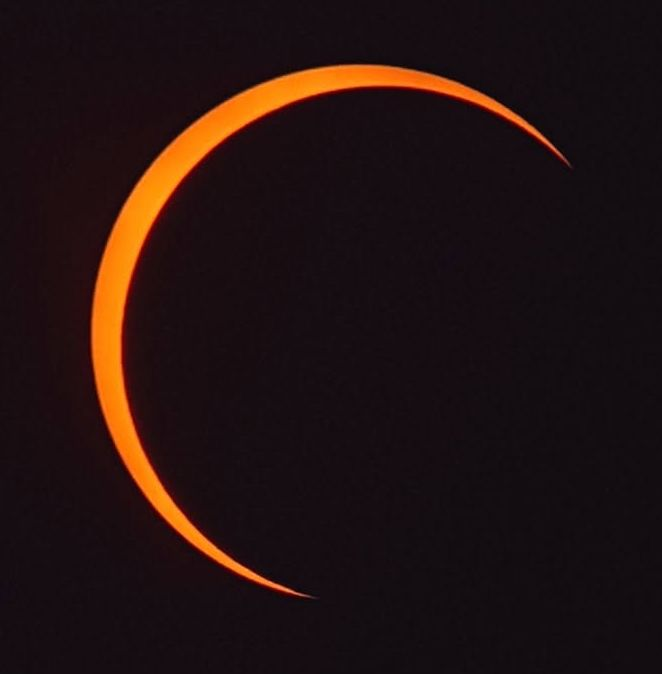
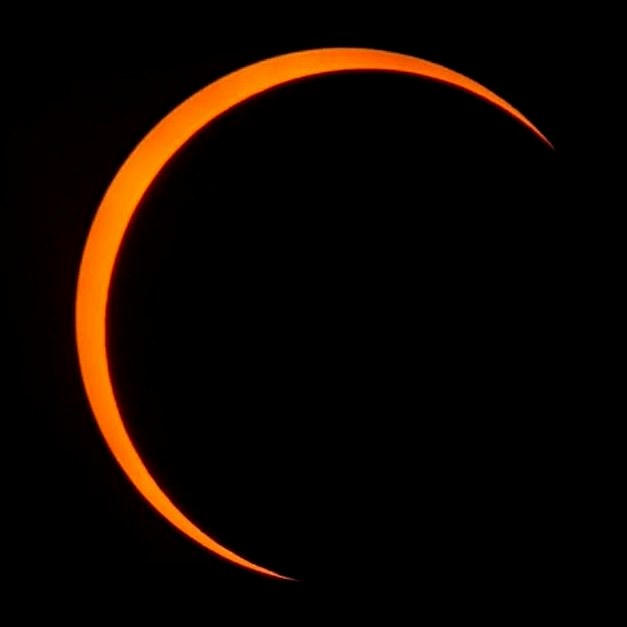
TEMP: crop eclipse photo tightly and re-center it
Cropped the eclipse photo to a square tightly framing the crescent
(bounding-box centered, ~18% padding), same fix applied to the moon
photo for Lunar, so the default zoom no longer needs an oversized
CSS background-size to avoid a black rim. Reset the debug slider's
default back to 100% accordingly.

Changed region(s): [[0.0, 0.0606, 0.8788, 0.9394], [0.0303, 0.0303, 0.0909, 0.0606], [0.3939, 0.4848, 0.4242, 0.5152]]

diff --git a/index.html b/index.html
@@ -1001,7 +1001,7 @@
       url('assets/accurova_solareclipse.jpg');
     background-position:center, center;
     background-repeat:no-repeat, no-repeat;
-    background-size:cover, var(--eclipse-zoom, 145%) var(--eclipse-zoom, 145%);
+    background-size:cover, var(--eclipse-zoom, 100%) var(--eclipse-zoom, 100%);
     box-shadow:
       inset 0 0 18px rgba(0,0,0,0.6),
       inset 0 0 1px rgba(255,122,42,0.15);
@@ -1321,8 +1321,8 @@
 <!-- TEMP DEBUG: eclipse zoom slider, remove once the right value is reported back -->
 <div id="eclipseZoomDebug" style="position:fixed; top:8px; left:50%; transform:translateX(-50%); z-index:999; background:#000; padding:8px 14px; border:1px solid #39c5bb; border-radius:6px; color:#fff; font-family:'JetBrains Mono',monospace; font-size:12px; display:flex; align-items:center; gap:8px;">
   <span>Eclipse zoom:</span>
-  <input type="range" id="eclipseZoomSlider" min="60" max="250" value="145" step="1">
-  <span id="eclipseZoomValue">145%</span>
+  <input type="range" id="eclipseZoomSlider" min="60" max="250" value="100" step="1">
+  <span id="eclipseZoomValue">100%</span>
 </div>
 
 <div class="toast" id="toast"></div>
